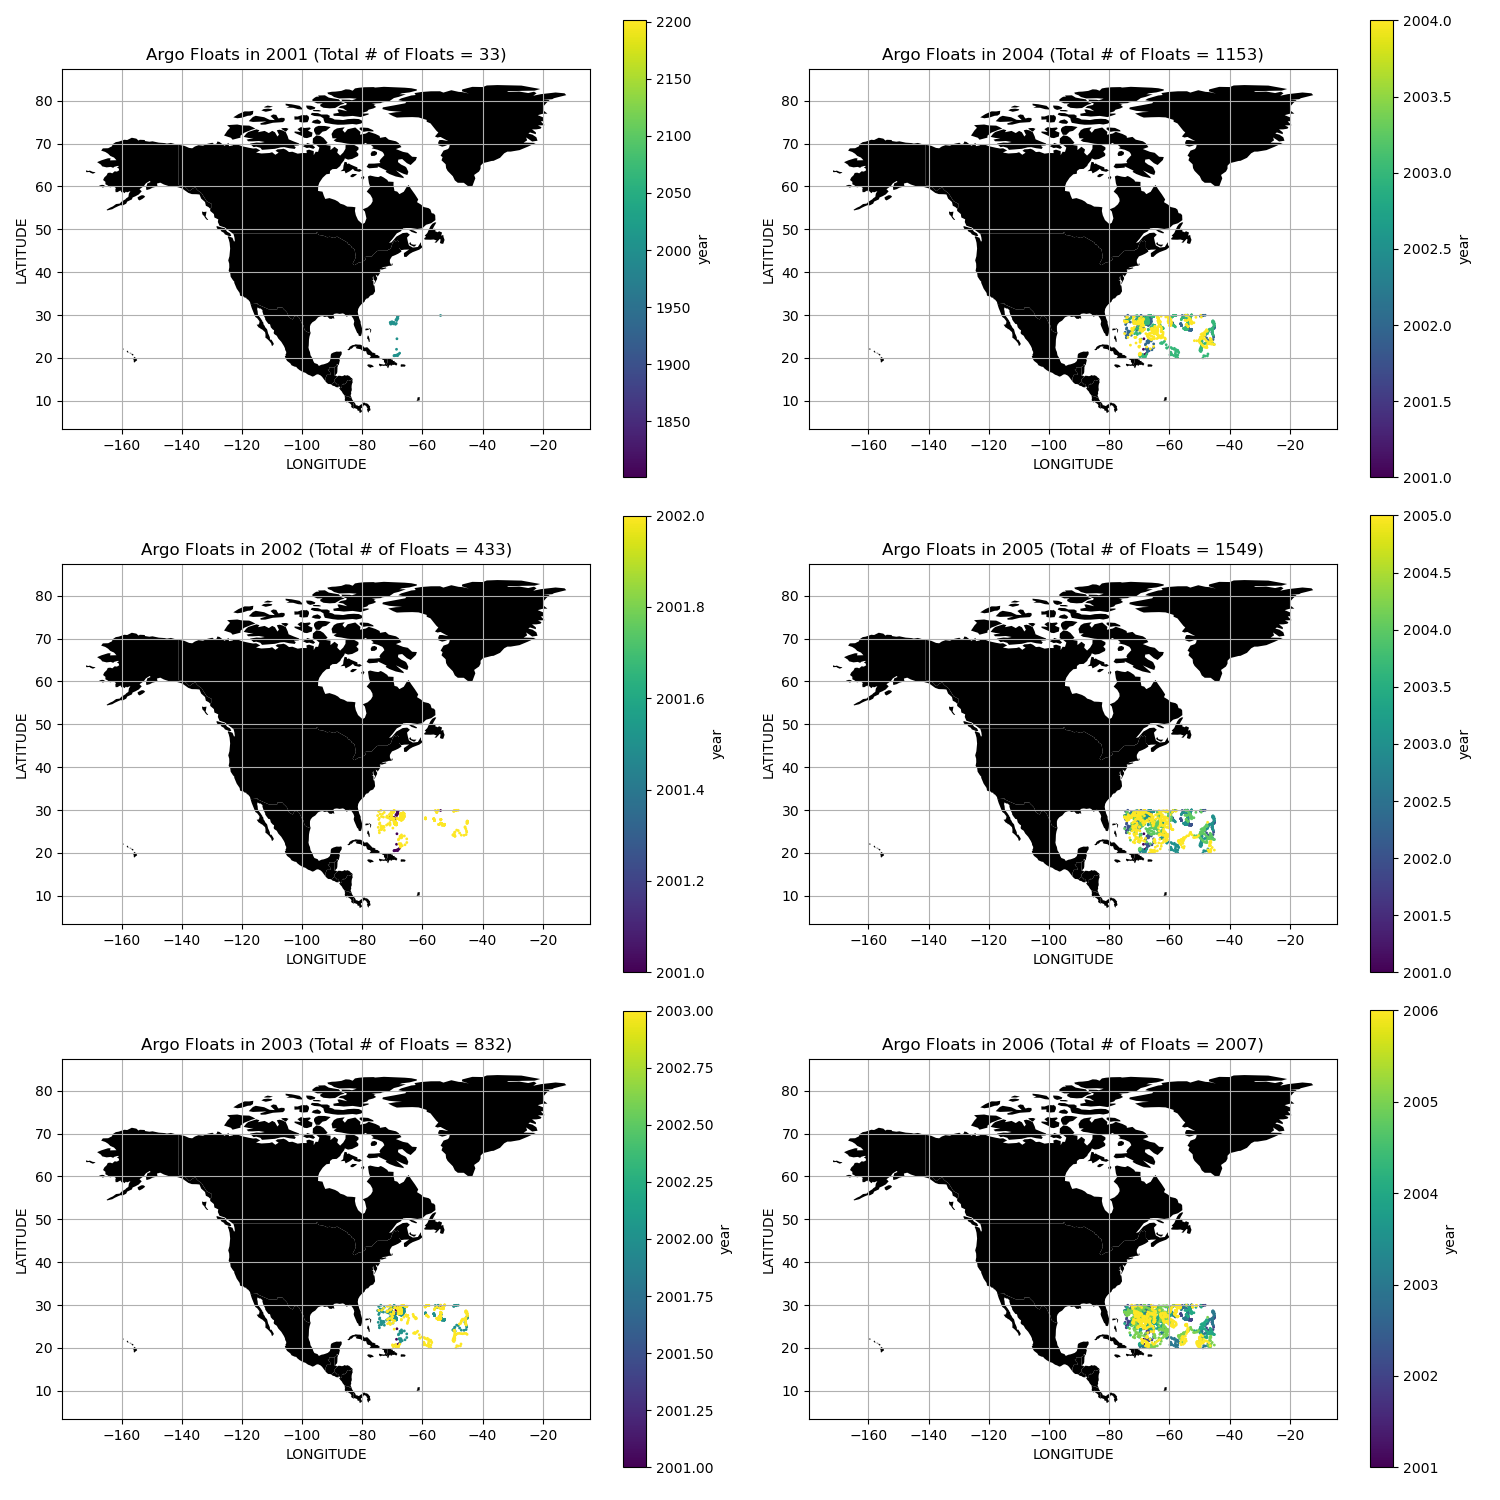
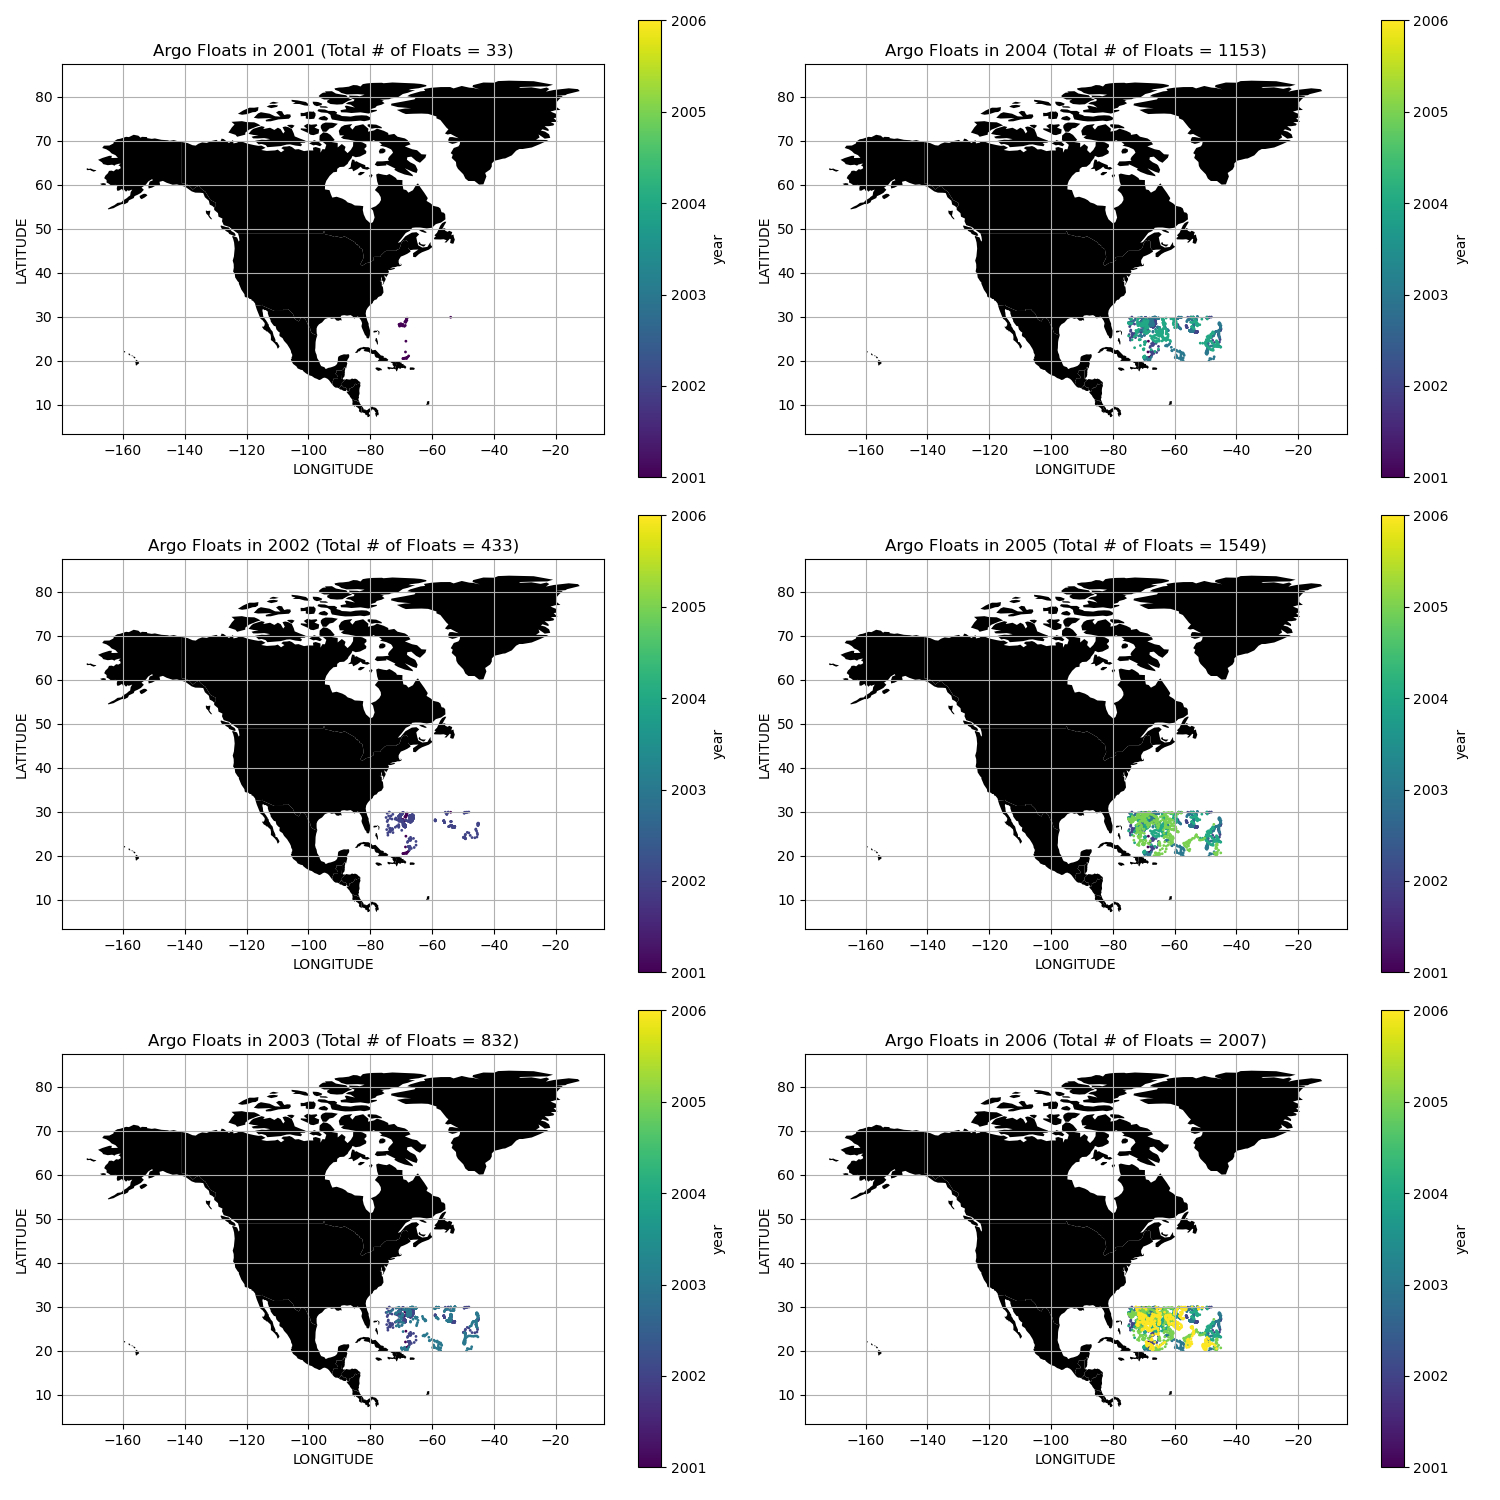
Updates from Overleaf

Changed region(s): [[0.0613, 0.0, 0.9813, 0.9813], [0.0613, 0.552, 0.092, 0.5827], [0.0613, 0.2147, 0.092, 0.2453]]

diff --git a/report.tex b/report.tex
@@ -15,11 +15,11 @@ The objective of this project was to select an open source software package and 
 
 \section{Results}
 
-Herein, the results for each computational task will be presented. The first computational task will focus on visualizing the position of argo floats in a region southeast of Florida and how the total number of floats changes each year. The second computational task is used to visualize the trajectory of an individual argo float and the variations in temperature, salinity and pressure through each cycle since the float's deployment.
+Herein, the results for each computational task will be presented. The first computational task will focus on visualizing the position of Argo floats in a region southeast of Florida and how the total number of floats changes each year. The second computational task is used to visualize the trajectory and temperature variation of two Argo floats with time since the float's deployment.
 
 \subsection{Task 1- Total Argo float numbers through time}
 
-The objective for my first computational task was to retrieve Argo data collected from 2001 to 2006 using argopy and use this data to visualize the change in the total number of Argo floats per year within a region of the Atlantic Ocean, southeast of Florida, USA. This process began by using the ArgoDataFetcher to retrieve Argo data within user specified coordinates for a user specified time frame (2001-01-01 to 2006-12-31). Following this step, the downloaded Argo data (stored as an xarray.Dataset) was converted into a Pandas dataframe, which was then exported as a csv file that served as the intermediate file to perform this computational task. Next, this csv file was loaded into a python script as a Pandas dataframe in order to begin the final data filtering and plotting. Prior to plotting, the original Pandas dataframe was split into 6 different dataframes so that each dataframe contained data only from a certain year from 2001 to 2006. Each dataframe containing Argo data from 2001 to 2006 was then appended to the dataframe of its subsequent year in order to calculate the total number of Argo floats present each year. For example, the dataframe for additional Argo floats deployed in 2002 (400) was appended to the total in 2001 (33) to get the total over those two years (433).Following the completeion of data filtering, the matplotlib and geopandas Python libraries were used to plot the position and total number of Argo floats per year with the addition of a base map of North America on each plot (extracted using a dataframe obtained from geopandas) for spatial reference.
+The objective for my first computational task was to retrieve Argo data collected from 2001 to 2006 using argopy and use this data to visualize the change in the total number of Argo floats per year within a region of the Atlantic Ocean, southeast of Florida, USA. This process began by using the ArgoDataFetcher to retrieve Argo data within user specified coordinates for a user specified time frame (2001-01-01 to 2006-12-31). Following this step, the downloaded Argo data (stored as an xarray.Dataset) was converted into a Pandas dataframe, which was then exported as a csv file that served as the intermediate file to perform this computational task. Next, this csv file was loaded into a python script as a Pandas dataframe in order to begin the final data filtering and plotting. Prior to plotting, the original Pandas dataframe was split into 6 different dataframes so that each dataframe contained data only from a certain year from 2001 to 2006. Each dataframe containing Argo data from 2001 to 2006 was then appended to the dataframe of its subsequent year in order to calculate the total number of Argo floats present each year. For example, the dataframe for additional Argo floats deployed in 2002 (400) was appended to the total in 2001 (33) to get the total over those two years (433).Following the completion of data filtering, the matplotlib and geopandas Python libraries were used to plot the position and total number of Argo floats per year with the addition of a base map of North America on each plot (extracted using a dataframe obtained from geopandas) for spatial reference.
 
 \begin{figure}
 \includegraphics[width=\textwidth,height=\textheight,keepaspectratio]{total_argo.png}
